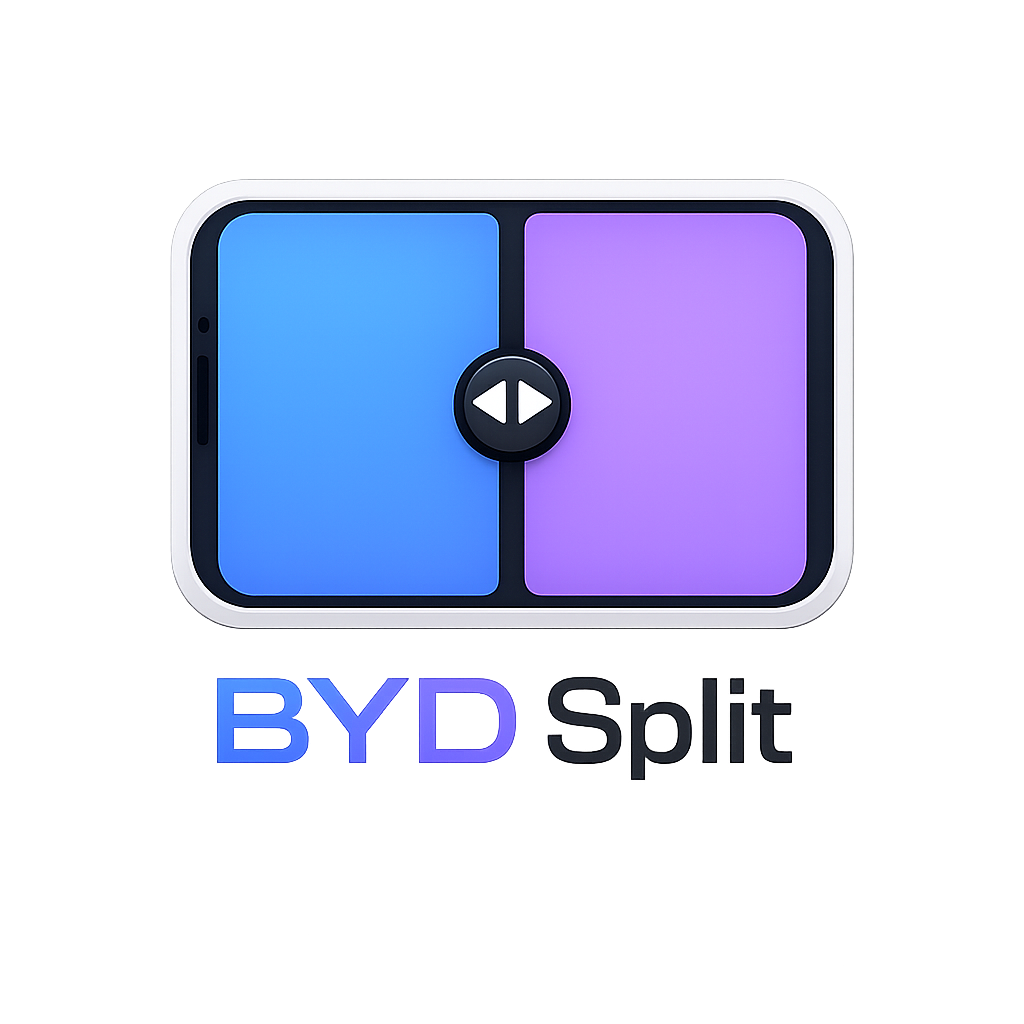
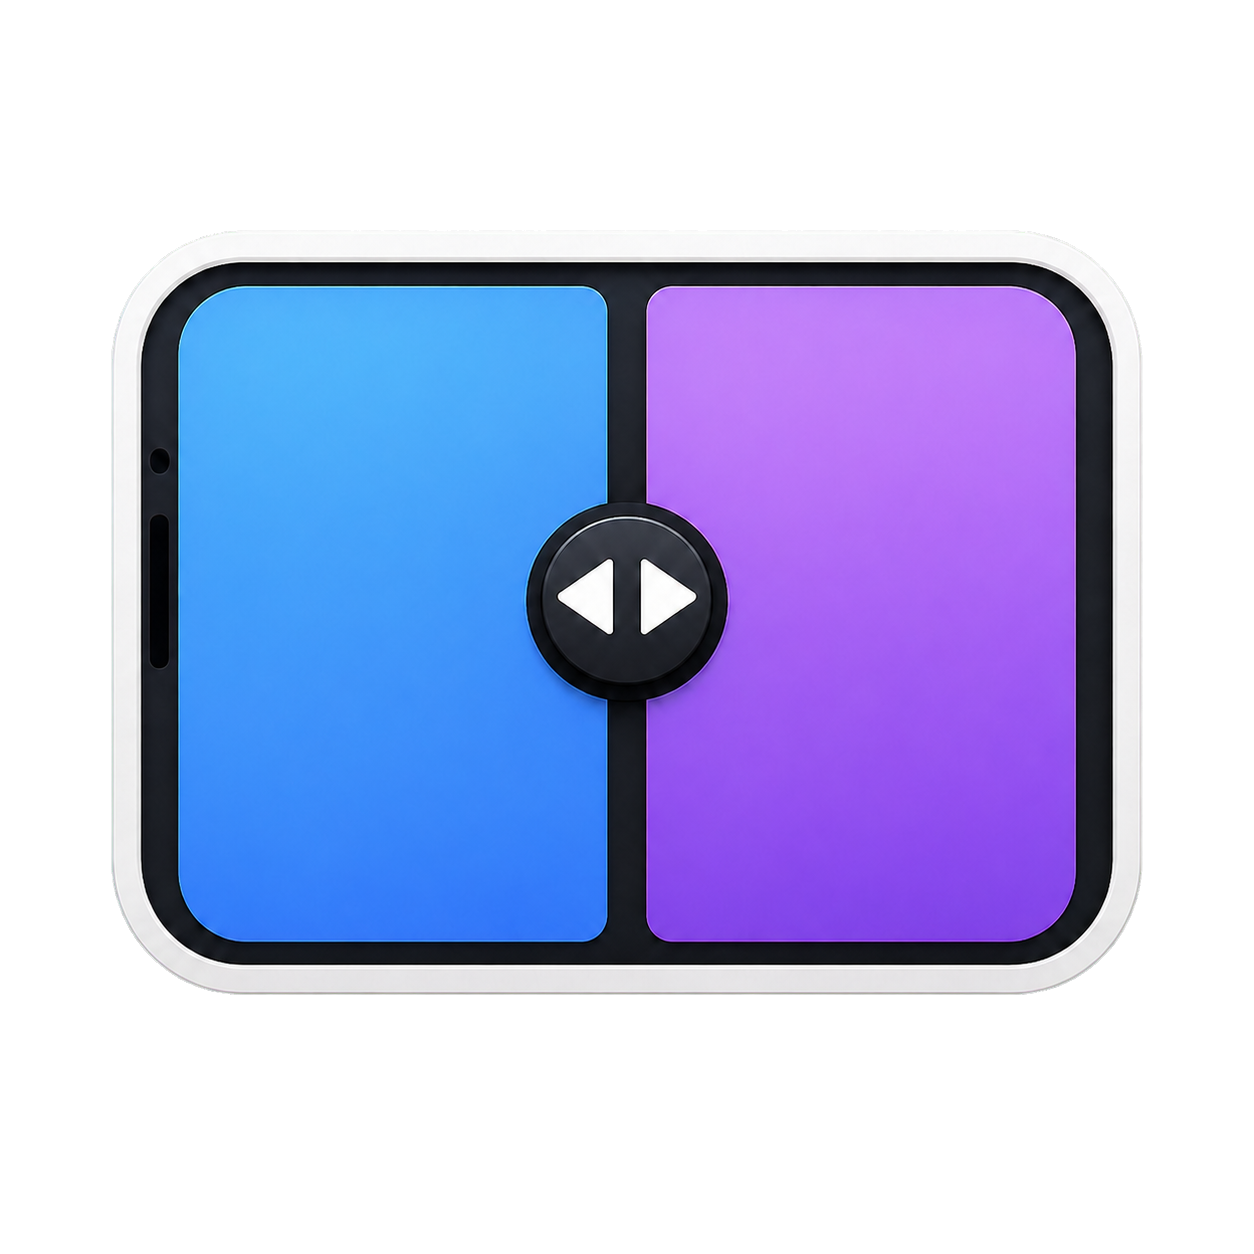
Refresh transparent launcher mark

diff --git a/README.md b/README.md
@@ -12,7 +12,7 @@ BYD Split — экспериментальный ландшафтный лаун
 разделитель, сохраняются скруглённые панели и можно независимо менять
 приложение только в одном окне.
 
-> Статус: версия `0.3.3`, тестируется на DiLink 5 / Android 12. Перед поездкой
+> Статус: версия `0.3.4`, тестируется на DiLink 5 / Android 12. Перед поездкой
 > настройте интерфейс на стоящем автомобиле.
 
 ## Скриншоты
